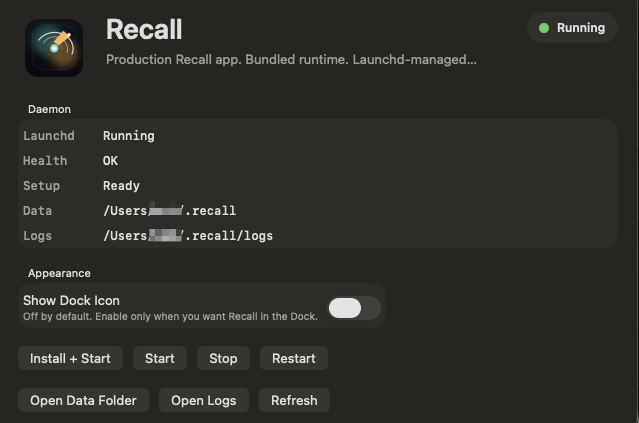
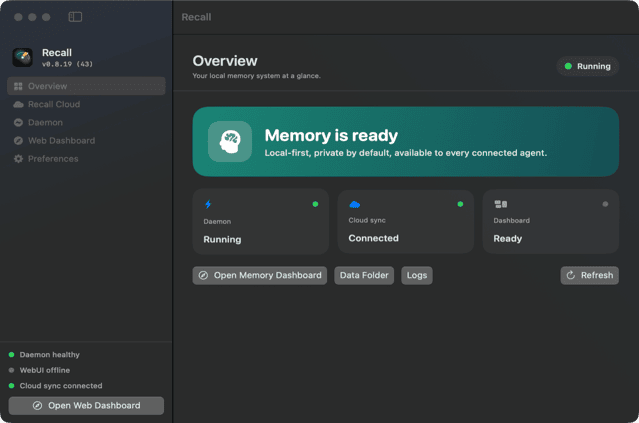
docs: refresh Recall app status surface

diff --git a/docs/index.html b/docs/index.html
@@ -228,16 +228,16 @@
       <section class="app-shot" aria-label="The status app">
         <div data-reveal="11">
           <p class="eyebrow">What gets installed</p>
-          <h2>A small status surface. The work happens in hooks.</h2>
+          <h2>One status surface for local and cloud memory.</h2>
           <p>
-            Recall.app is a quiet window — daemon health, where memories live on disk, a few
-            buttons. The real work runs through MCP and your agent's SessionStart /
-            UserPromptSubmit / SessionEnd hooks. Nothing to babysit.
+            Recall.app keeps daemon, dashboard, and optional cloud-sync health in one quiet
+            window. Connect Recall Cloud from the sidebar when you want the same memory on every
+            Mac and hosted agent; local MCP and lifecycle hooks keep doing the real work.
           </p>
         </div>
         <figure data-reveal="11">
-          <img src="./app-status.png" alt="Recall.app status panel showing daemon Running, Health OK, Setup Ready, paths to local data and logs, and controls for Install + Start, Start, Stop, Restart, Open Data Folder, Open Logs, Refresh." loading="lazy" width="639" height="423" />
-          <figcaption>Recall.app — daemon status and controls.</figcaption>
+          <img src="./app-status.png" alt="Recall.app Overview showing healthy daemon status, connected cloud sync, dashboard readiness, and quick controls." loading="lazy" width="639" height="423" />
+          <figcaption>Recall.app — local health, cloud sync, and dashboard controls.</figcaption>
         </figure>
       </section>
 

diff --git a/docs/TODO.md b/docs/TODO.md
@@ -1,0 +1,11 @@
+---
+status: active
+read_when: "Planning platform parity or release verification"
+---
+
+# TODO
+
+- Bring the macOS Recall Cloud/status/settings experience to Windows and Linux.
+- Run parallel end-to-end tests with Shotport/Guiport/VMLab across macOS,
+  Windows, and Linux; verify cloud sync, Settings, tray controls, and MCP access.
+- Shut down all test VMs after the cross-platform run.